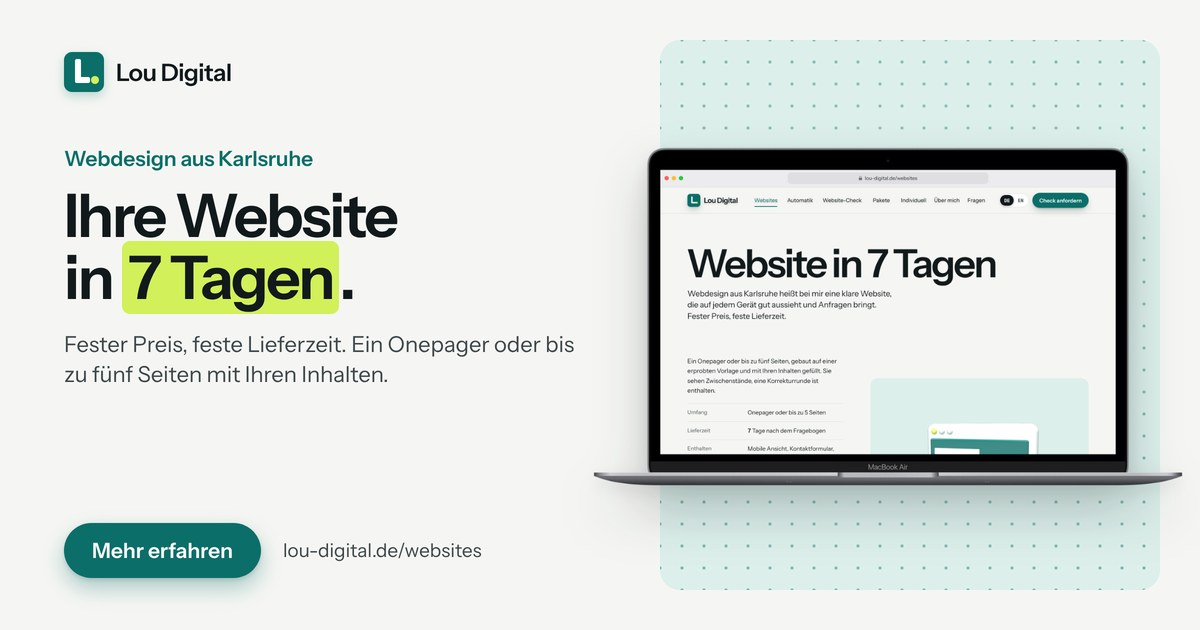
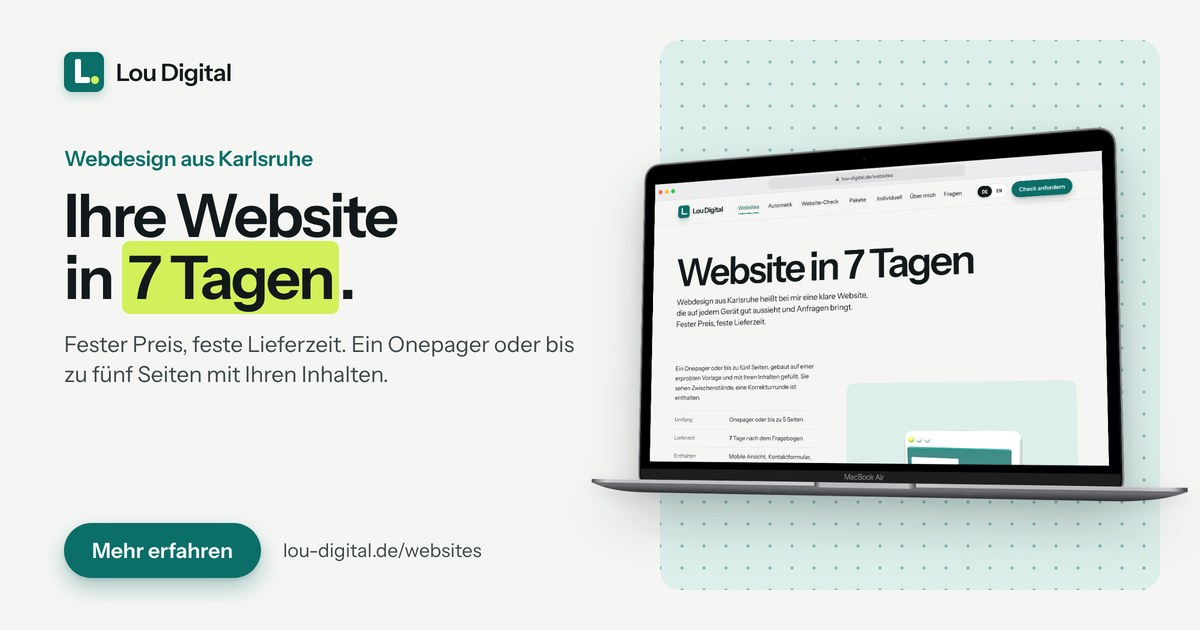
Vorschaubilder abwechslungsreicher: je Seite eigene Geräteansicht
Start mit Laptop und Handy, Website-Check Handy nach links geneigt,
Kontakt Handy gerade als Nahaufnahme, Pakete Laptop frontal,
Automatik Handy nach rechts geneigt, Websites Laptop schräg (alles Shots.so).
og:image auf ?v=3 für frischen Abruf.

Claude-Session: https://claude.ai/code/session_012vLBxSfimEBeqLoeLwvpxn

Changed region(s): [[0.4933, 0.181, 0.9867, 0.8143]]

diff --git a/start.html b/start.html
@@ -18,10 +18,10 @@
 <meta property="og:description" content="Lou Digital aus Karlsruhe bietet Webdesign, eine Website in 7 Tagen, Anfrage-Automatik und Betreuung für Unternehmen mit Anspruch. Der Website-Check ist kostenlos.">
 <meta property="og:type" content="website">
 <meta property="og:url" content="https://lou-digital.de/">
-<meta property="og:image" content="https://lou-digital.de/img/og-start.jpg?v=2">
+<meta property="og:image" content="https://lou-digital.de/img/og-start.jpg?v=3">
 <meta property="og:image:width" content="1200">
 <meta property="og:image:height" content="630">
-<meta property="og:image:alt" content="Lou Digital: Websites und Automatisierung aus Karlsruhe, Startseite auf einem Laptop">
+<meta property="og:image:alt" content="Lou Digital: Websites und Automatisierung aus Karlsruhe, Startseite auf Laptop und Handy">
 <meta property="og:site_name" content="Lou Digital">
 <meta property="og:locale" content="de_DE">
 <meta name="twitter:card" content="summary_large_image">

diff --git a/automatik.html b/automatik.html
@@ -16,7 +16,7 @@
 <meta property="og:description" content="Automatisierung für Ihr Kontaktformular. Jede Anfrage landet in einer Tabelle und als Nachricht auf Ihrem Handy, und der Kunde bekommt sofort eine Bestätigung. Eingerichtet in 5 Tagen.">
 <meta property="og:type" content="website">
 <meta property="og:url" content="https://lou-digital.de/automatik">
-<meta property="og:image" content="https://lou-digital.de/img/og-automatik.jpg?v=2">
+<meta property="og:image" content="https://lou-digital.de/img/og-automatik.jpg?v=3">
 <meta property="og:image:width" content="1200">
 <meta property="og:image:height" content="630">
 <meta property="og:image:alt" content="Anfrage-Automatik von Lou Digital: Formular, Tabelle und Handy arbeiten zusammen">

diff --git a/website-check.html b/website-check.html
@@ -16,7 +16,7 @@
 <meta property="og:description" content="Kostenloser Website-Check mit 100 Prüfpunkten zu Sicherheit, Recht, Handy, Google, Tempo und Anbindungen wie Formular, Karte und Buchung. Das Ergebnis kommt sofort.">
 <meta property="og:type" content="website">
 <meta property="og:url" content="https://lou-digital.de/website-check">
-<meta property="og:image" content="https://lou-digital.de/img/og-website-check.jpg?v=2">
+<meta property="og:image" content="https://lou-digital.de/img/og-website-check.jpg?v=3">
 <meta property="og:image:width" content="1200">
 <meta property="og:image:height" content="630">
 <meta property="og:image:alt" content="Kostenloser Website-Check von Lou Digital: 100 Prüfpunkte, Ergebnis in etwa 15 Sekunden">

diff --git a/pakete.html b/pakete.html
@@ -16,7 +16,7 @@
 <meta property="og:description" content="Feste Pakete und klare Preise: Website in 7 Tagen, Anfrage-Automatik, Kundenumfrage, Tiefen-Check und Betreuung S/M/L/E ab 29 € im Monat. Der Website-Check ist kostenlos.">
 <meta property="og:type" content="website">
 <meta property="og:url" content="https://lou-digital.de/pakete">
-<meta property="og:image" content="https://lou-digital.de/img/og-pakete.jpg?v=2">
+<meta property="og:image" content="https://lou-digital.de/img/og-pakete.jpg?v=3">
 <meta property="og:image:width" content="1200">
 <meta property="og:image:height" content="630">
 <meta property="og:image:alt" content="Pakete und Preise von Lou Digital: feste Grundpreise und klar abgegrenzte Betreuung">

diff --git a/kontakt.html b/kontakt.html
@@ -16,7 +16,7 @@
 <meta property="og:description" content="Fragen Sie bei Lou Digital in Karlsruhe an, wählen Sie Pakete, vereinbaren Sie ein Gespräch oder fordern Sie den kostenlosen Website-Check an. Sie bekommen sofort eine Bestätigung.">
 <meta property="og:type" content="website">
 <meta property="og:url" content="https://lou-digital.de/kontakt">
-<meta property="og:image" content="https://lou-digital.de/img/og-kontakt.jpg?v=2">
+<meta property="og:image" content="https://lou-digital.de/img/og-kontakt.jpg?v=3">
 <meta property="og:image:width" content="1200">
 <meta property="og:image:height" content="630">
 <meta property="og:image:alt" content="Anfrage an Lou Digital: Antwort in der Regel innerhalb von 24 Stunden">

diff --git a/websites.html b/websites.html
@@ -16,7 +16,7 @@
 <meta property="og:description" content="Webdesign aus Karlsruhe mit Onepager oder bis zu fünf Seiten in 7 Tagen, mobil optimiert und mit Kontaktformular. Fester Preis, Domain auf Ihren Namen.">
 <meta property="og:type" content="website">
 <meta property="og:url" content="https://lou-digital.de/websites">
-<meta property="og:image" content="https://lou-digital.de/img/og-websites.jpg?v=2">
+<meta property="og:image" content="https://lou-digital.de/img/og-websites.jpg?v=3">
 <meta property="og:image:width" content="1200">
 <meta property="og:image:height" content="630">
 <meta property="og:image:alt" content="Website in 7 Tagen von Lou Digital: fester Preis, feste Lieferzeit">
